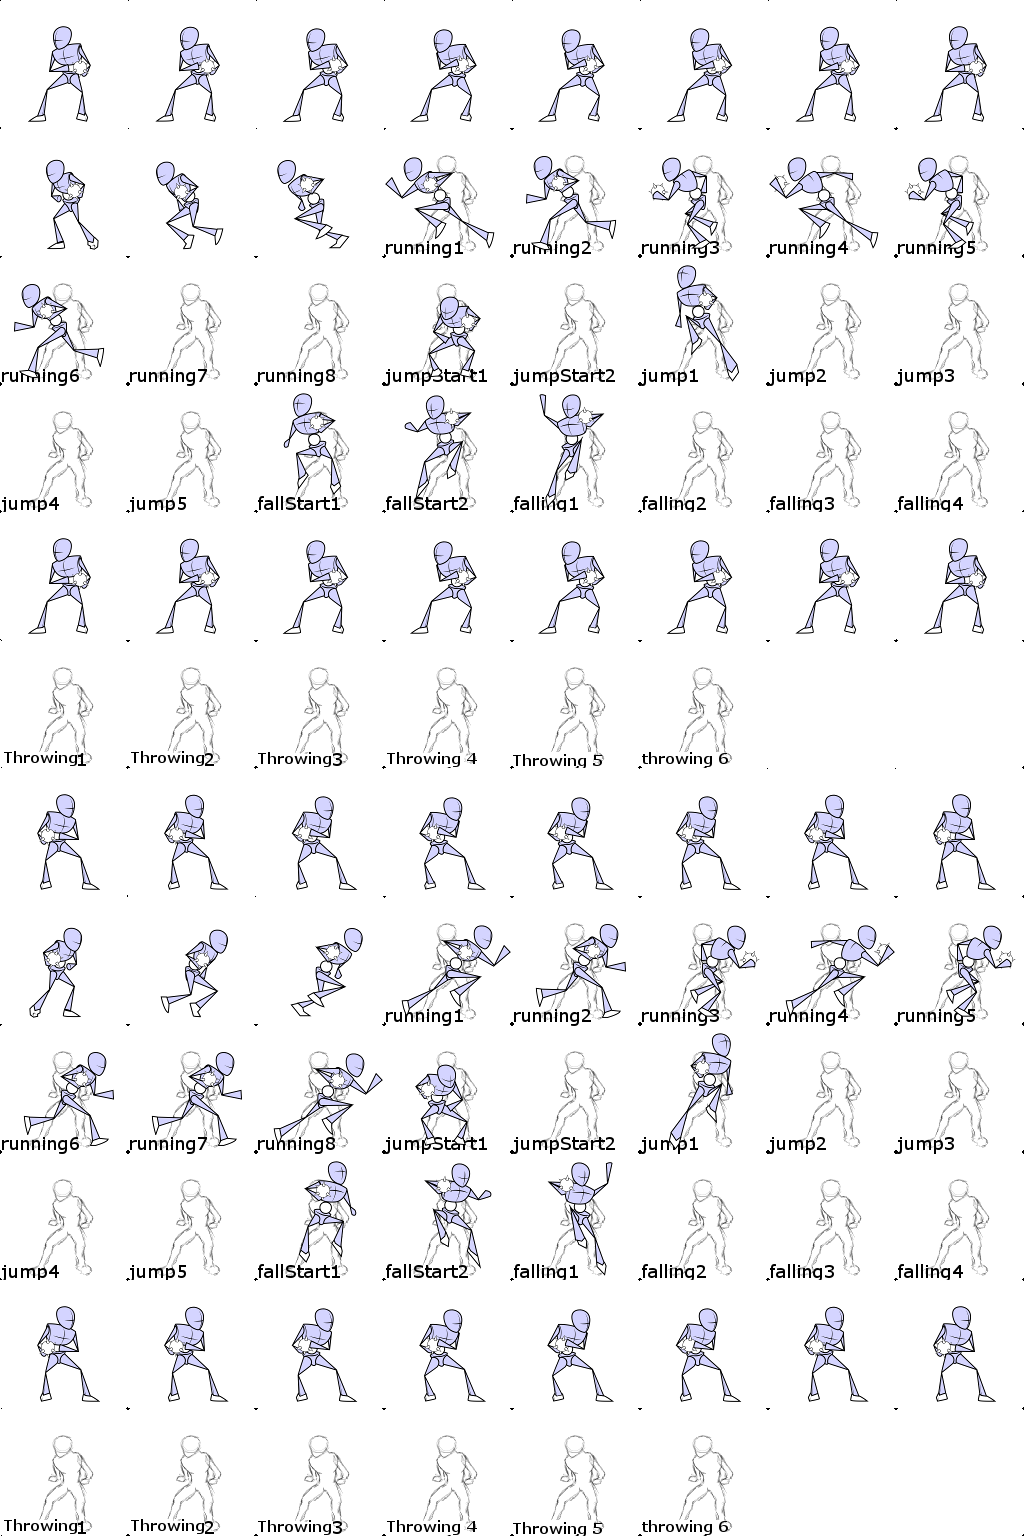
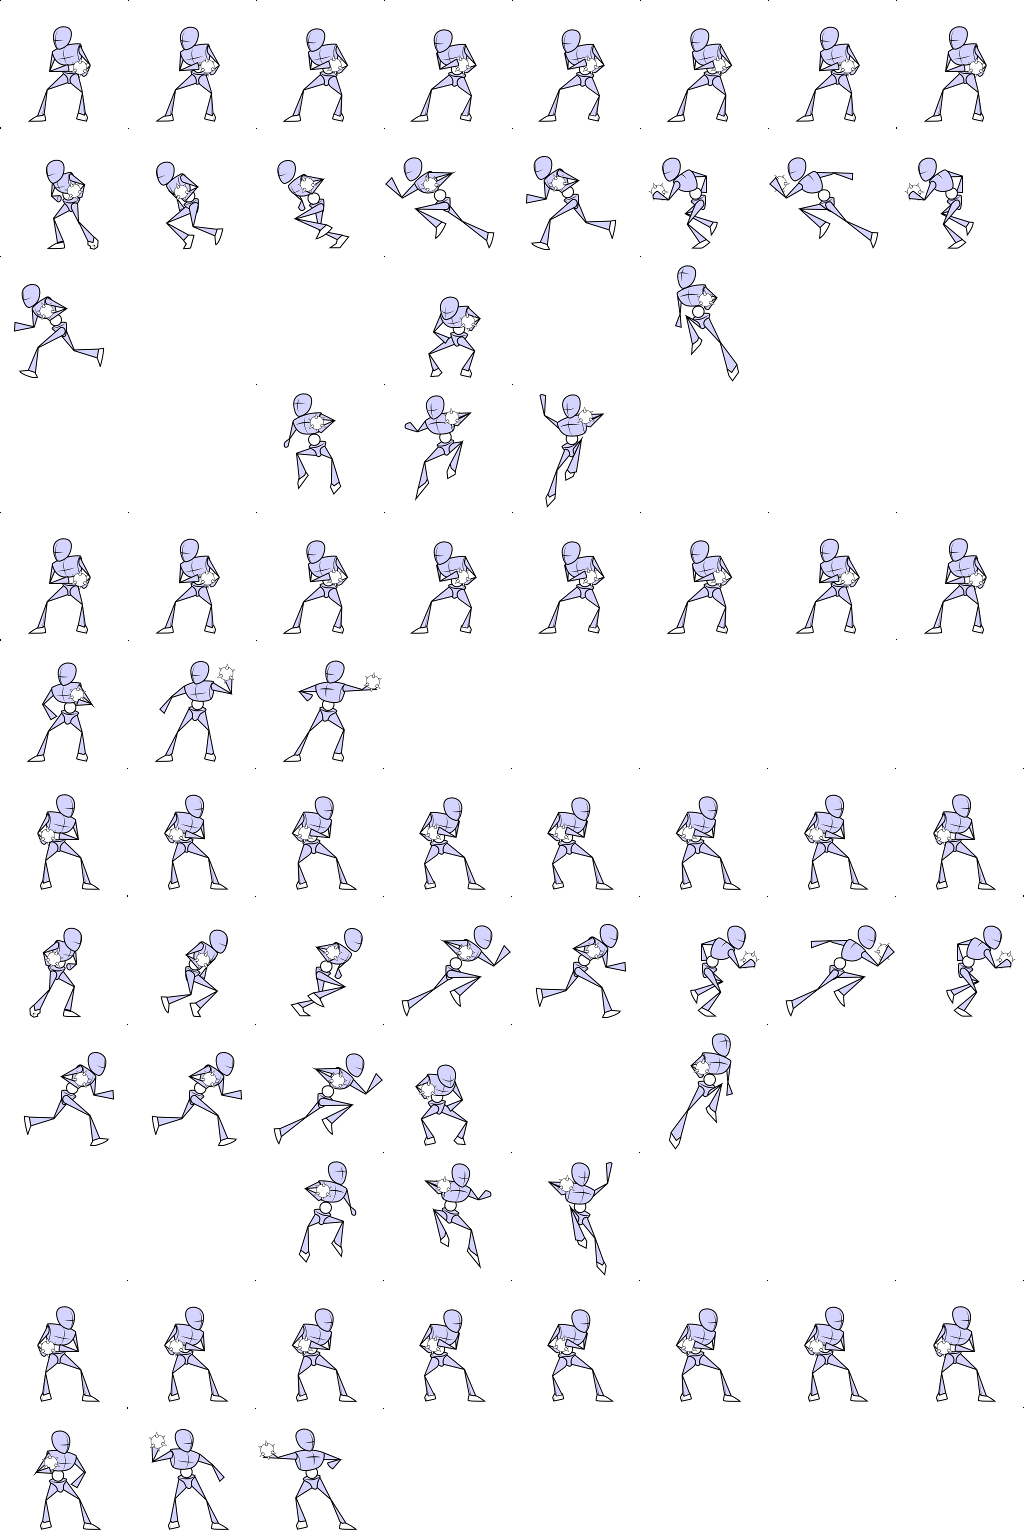
Adjusted animations in main and added three new throwing frames.  Removed the sketch behind the sprites

diff --git a/main.js b/main.js
@@ -84,23 +84,23 @@ function Player(game)   {
     this.LIdleAnimation = new Animation(ASSET_MANAGER.getAsset("./img/player.png"), 0, 0, 128, 128, 0.08, 8, true, false);
     this.LRunAnimation = new Animation(ASSET_MANAGER.getAsset("./img/player.png"), 384, 128, 128, 128, 0.10, 6, true, false);
     this.LRunStartAnimation = new Animation(ASSET_MANAGER.getAsset("./img/player.png"), 0, 128, 128, 128, 0.05, 3, false, false);
-    this.LJumpAnimation = new Animation(ASSET_MANAGER.getAsset("./img/player.png"), 640, 256, 128, 128, 0.1, 5, false, false);
-    this.LJumpStartAnimation = new Animation(ASSET_MANAGER.getAsset("./img/player.png"), 384, 256, 128, 128, 0.05, 2, false, false);
-    this.LFallAnimation = new Animation(ASSET_MANAGER.getAsset("./img/player.png"), 512, 384, 128, 128, 0.2, 4, true, false);
+    this.LJumpAnimation = new Animation(ASSET_MANAGER.getAsset("./img/player.png"), 640, 256, 128, 128, 1, 1, true, false);
+    this.LJumpStartAnimation = new Animation(ASSET_MANAGER.getAsset("./img/player.png"), 384, 256, 128, 128, 0.075, 1, false, false);
+    this.LFallAnimation = new Animation(ASSET_MANAGER.getAsset("./img/player.png"), 512, 384, 128, 128, 1, 1, true, false);
     this.LFallStartAnimation = new Animation(ASSET_MANAGER.getAsset("./img/player.png"), 256, 384, 128, 128, 0.05, 2, false, false);
     this.LBallAnimation = new Animation(ASSET_MANAGER.getAsset("./img/player.png"),0, 512, 128, 128, 0.08, 8, true, false);  // payer has ball
-    this.LThrowAnimation = new Animation(ASSET_MANAGER.getAsset("./img/player.png"), 0, 640, 128, 128, 0.02, 6, false, false);
+    this.LThrowAnimation = new Animation(ASSET_MANAGER.getAsset("./img/player.png"), 0, 640, 128, 128, 0.04, 3, false, false);
 
     //// Left Animations ////
     this.RIdleAnimation = new Animation(ASSET_MANAGER.getAsset("./img/player.png"), 0, 768, 128, 128, 0.08, 8, true, false);
     this.RRunAnimation = new Animation(ASSET_MANAGER.getAsset("./img/player.png"), 384, 896, 128, 128, 0.10, 6, true, false);
     this.RRunStartAnimation = new Animation(ASSET_MANAGER.getAsset("./img/player.png"), 0, 896, 128, 128, 0.05, 3, false, false);
-    this.RJumpAnimation = new Animation(ASSET_MANAGER.getAsset("./img/player.png"), 640, 1024, 128, 128, 0.1, 5, false, false);
-    this.RJumpStartAnimation = new Animation(ASSET_MANAGER.getAsset("./img/player.png"), 384, 1024, 128, 128, 0.05, 2, false, false);
-    this.RFallAnimation = new Animation(ASSET_MANAGER.getAsset("./img/player.png"), 512, 1152, 128, 128, 0.2, 4, true, false);
+    this.RJumpAnimation = new Animation(ASSET_MANAGER.getAsset("./img/player.png"), 640, 1024, 128, 128, 1, 1, true, false);
+    this.RJumpStartAnimation = new Animation(ASSET_MANAGER.getAsset("./img/player.png"), 384, 1024, 128, 128, 0.075, 1, false, false);
+    this.RFallAnimation = new Animation(ASSET_MANAGER.getAsset("./img/player.png"), 512, 1152, 128, 128, 1, 1, true, false);
     this.RFallStartAnimation = new Animation(ASSET_MANAGER.getAsset("./img/player.png"), 256, 1152, 128, 128, 0.05, 2, false, false);
     this.RBallAnimation = new Animation(ASSET_MANAGER.getAsset("./img/player.png"),0, 1280, 128, 128, 0.08, 8, true, false);  // payer has ball
-    this.RThrowAnimation = new Animation(ASSET_MANAGER.getAsset("./img/player.png"), 0, 1408, 128, 128, 0.02, 6, false, false);
+    this.RThrowAnimation = new Animation(ASSET_MANAGER.getAsset("./img/player.png"), 0, 1408, 128, 128, 0.04, 3, false, false);
 
     this.jumpingState = 0; // 0 is on the ground, 1 is starting to jump, 2 is rising, 3 is beginning to fall, 4 is falling.  Has priority over running.
     this.runningState = 0; // 0 is idle, 1 is starting to run, 2 is running
